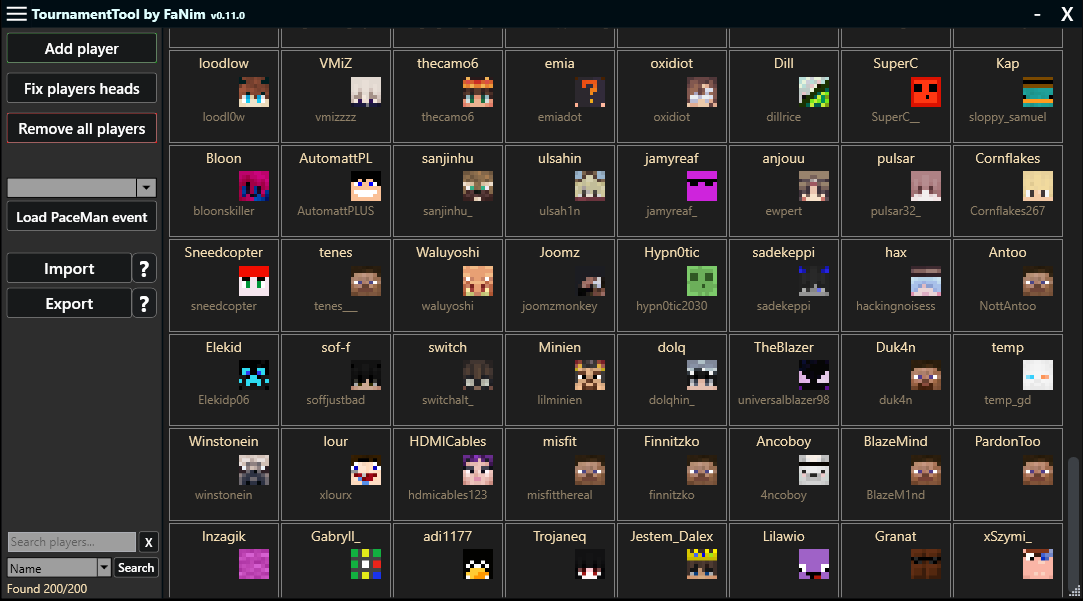
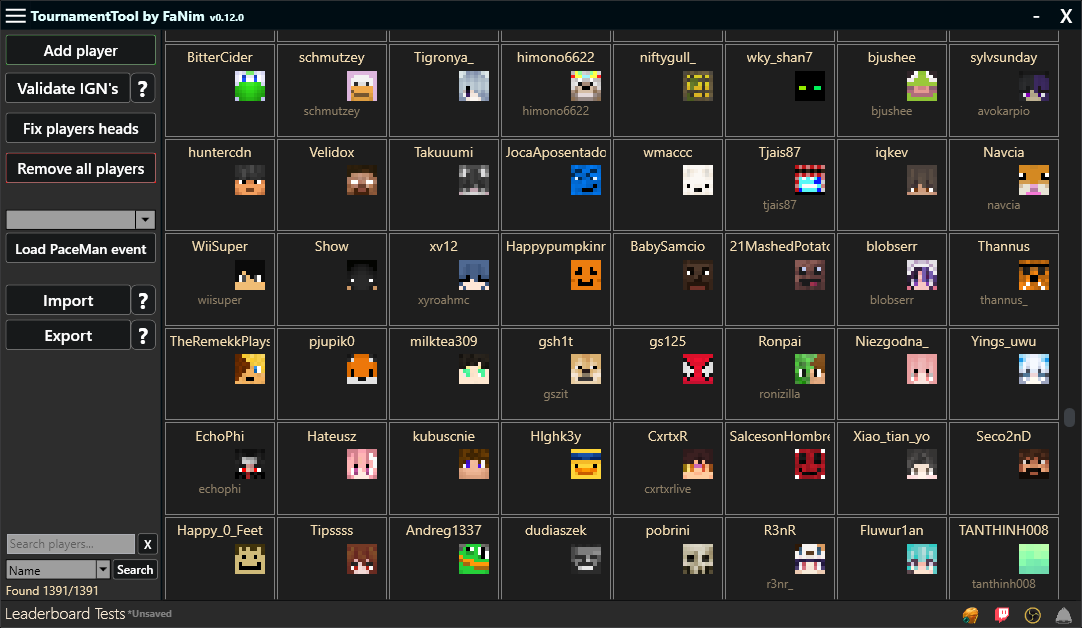
readme update for 0.12

Changed region(s): [[0.0, 0.0, 1.0, 1.0]]

diff --git a/README.md b/README.md
@@ -2,14 +2,25 @@
 
 **MCSR Tournament Tool** is a desktop application designed to streamline the management of Points of View (POVs) in OBS during **Minecraft Speedrunning** tournaments. This tool is tailored for streamers and tournament organizers, providing a wide range of features to simplify configuration and enhance gameplay monitoring.
 
-Start app view as preset menu (view is WIP)
-![Start app view as preset menu (view is WIP)](Images/PresetMenu.png)
+<p align="center">
+  <img src="Images/PresetMenu.png" alt="Preset menu"/>
+</p>  
+<p align="center"><em>Start app view as preset menu (view is WIP)</em></p>
 
-Whitelist menu view
-![Whitelist panel view](Images/Whitelist.png)
+<p align="center">
+  <img src="Images/Whitelist.png" alt="Preset menu"/>
+</p>  
+<p align="center"><em>Whitelist menu view</em></p>
 
-Controller menu view with controller mode for Paceman (view is WIP)
-![Controller menu view with controller mode for Paceman (view is WIP)](Images/ControllerMenu-Mode_Paceman.png)
+<p align="center">
+  <img src="Images/ControllerMenu-Mode_Paceman.png" alt="Preset menu"/>
+</p>  
+<p align="center"><em>Controller menu view with controller mode for Paceman (view is WIP)</em></p>
+
+<p align="center">
+  <img src="Images/LeaderboardMenu.png" alt="Leaderboard Menu"/>
+</p>  
+<p align="center"><em>Leaderboard menu view with visible rules and evaluated players</em></p>
 
 ## Key Features  
 
@@ -25,12 +36,12 @@ Controller menu view with controller mode for Paceman (view is WIP)
 - **Dynamic OBS POV Management**  
   Effortlessly switch between player views with built-in POV management features using drag-and-drop functionality or by directly clicking on players and POVs.
 
+- **Leaderboard**  
+  Track player progress in real time with milestones, points, and custom scoring rules. Easily view best times, averages, and other performance statistics.
 ## Planned Enhancements  
 
-- A Built-in leaderboard for tracking player performance.
 - Support for displaying player statistics from MCSR Ranked and Paceman.
 - Automated processes for creating and managing POVs in OBS.
-- Settings menu for hotkeys configurations and more.
 - A more detailed API to display additional information to OBS for viewers.
 - Video and documentation tutorial.
 
